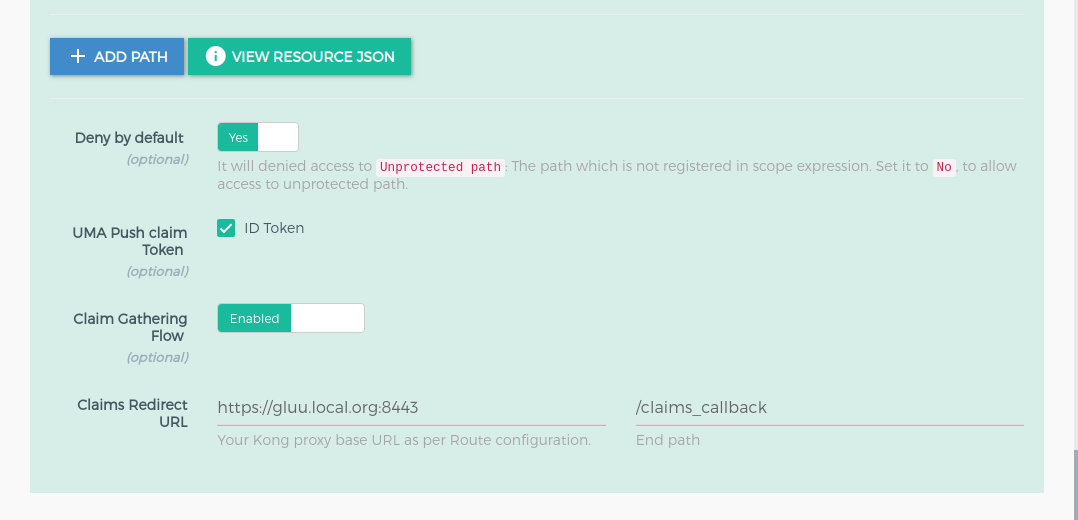
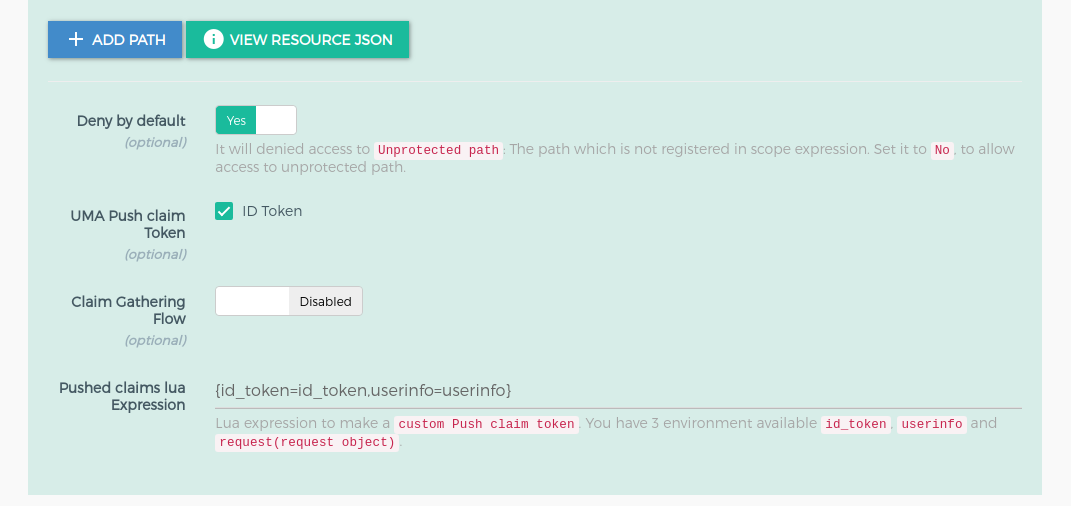
Added description about the pushed_claims_lua_exp feature and updated UI screenshots

diff --git a/docs/source/plugin/gluu-openid-connect-uma-pep.md b/docs/source/plugin/gluu-openid-connect-uma-pep.md
@@ -63,7 +63,7 @@ Clicking on the `+` icon will bring up the below form.
 ![oidc2](../img/oidc2.png)
 ![oidc3](../img/oidc3.png)
 
-Use this section to setup the headers, which will sent to your upstream service afterauthnetication.
+Use this section to setup the headers, which will sent to your upstream service after authnetication.
 
 ![oidc3-1](../img/oidc3-1.png)
 
@@ -219,9 +219,31 @@ As per the above example,
 |**claims_redirect_path**||Claims redirect URL in claim gathering flow for your OP Client. You just need to set path here like `/claim-callback` but you need to register OP Client with full URL like `https://kong.proxy.com/claim-callback`. GG UI creates OP client for you and also configure the `gluu-openid-connect` and `gluu-uma-pep` plugin.|
 |**redirect_claim_gathering_url**|false|It used to tell the plugin that if `need_info` response comes in claim gathering situation then redirect it for claim gathering.|
 |**method_path_tree**||It is for plugin internal use. We use it for tree level matching for dynamic paths which registered in `uma_scope_expression`| 
+|**pushed_claims_lua_exp**||Used to make the Push claim token. Check [here](#configure-pushed-claims-lua-expression) for more details.|
 
 !!! Note
     GG UI can create a dynamic client. However, if the Kong Admin API is used for plugin configuration, it requires an existing client using the oxd API, then passing the client's credentials to the Gluu-OpenID-Connect and Gluu-UMA-PEP plugin.
+
+#### Configure Pushed Claims Lua Expression
+
+You can pass some more extra information to UMA Policy so that you can make more configurable authorization policy using UMA and UMA Policies. After OpenID Connect authentication, you can pass userinfo to UMA Policy for authorization. So `gluu-uma-pep` has facility to build a custom Push Claim token. It provides 3 environments
+
+|Environments|Description| 
+|------------|-----------|
+|`id_token`|This environment has the decoded ID Token|
+|`userinfo`|This environment has the user info which is the response of the `/useinfo` endpoint|
+|`request`|This environment has the all the value of HTTP Request object|
+
+For Example: If you want to pass the userinfo to UMA policy then you need to configure `pushed_claims_lua_exp = userinfo`. This is Lua expression so plugin will pass this as it is. After this you can easily get this information in your `UMA RPT Policy` For Example: `context.getClaim("name")`, `context.getClaim("email")`. 
+
+More Examples:
+
+|Configuration|Use in Policy Script|
+|-------------|---|
+|`id_token`|<ul><li>You will have all the fields of decoded id_token.</li><li>`context.getClaim("exp")`</li><li>`context.getClaim("aud")`</li><li>`context.getClaim("auth_time")`</li></ul>|
+|`userinfo`|<ul><li>You will have all the fields of userinfo response.</li><li>`context.getClaim("name")`</li><li>`context.getClaim("email")`</li><li>`context.getClaim("sub")`</li></ul>|
+|`{id_token=id_token,userinfo=userinfo}`|<ul><li>Here you are passing both values as a single object. So you will have values of both `userinfo` and `id_token`. Here we are using `{}` to make a object.</li><li>`context.getClaim("id_token").optString("aud")`</li><li>`context.getClaim("userinfo").getString("name")`</li></ul>|
+|`{name=userinfo.name}`|<ul><li>You have here only one field i.e. `name`</li><li>`context.getClaim("name")`</li></ul>|
 
 ## Usage
 

diff --git a/docs/source/plugin/common-features.md b/docs/source/plugin/common-features.md
@@ -62,9 +62,9 @@ Assume that all paths below are registered in one plugin:
 
 After successful authentication, kong forward request upstream service. During this step, kong sends headers to your upstream headers. You can use this header to check and identify the user or request.
 
-There is feature in all 3 authentication plugins `gluu-oauth-auth`, `gluu-uma-auth` and `gluu-openid-connect`.
+There is feature in all 3 authentication plugins `gluu-oauth-auth`, `gluu-uma-auth` and `gluu-openid-connect`. Every plugin provide an environment which you need to use to set headers. 
 
-Every plugin provide an environment which you need to use to set headers. **For Example:** `gluu-oauth-auth` plugin has the `introspect_data` environment which has the token introspect response data. So If you want to set one header like `x-auth-token-exp` which will has the token expiration timestamp then you need to use the environment `introspect_data.exp` to set value.
+**For Example:** `gluu-oauth-auth` plugin has the `introspect_data` environment which has the token introspect response data. So If you want to set one header like `x-auth-token-exp` which will has the token expiration timestamp then you need to use the environment `introspect_data.exp` to set value.
 
 Take a look on below table for available environment in every plugin
 
